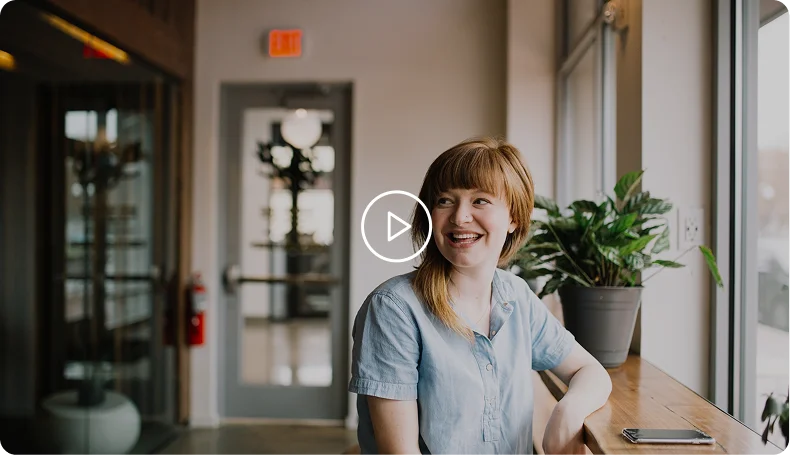
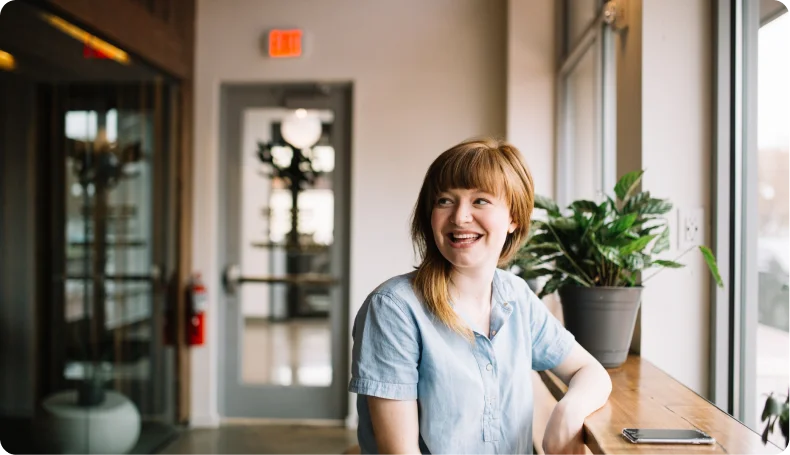
I'm copying the second site №5

diff --git a/styels/success.css b/styels/success.css
@@ -1,0 +1,110 @@
+.success {
+    background: var(--co-dark-green);
+}
+
+.success__wrapper {
+    display: flex;
+    justify-content: space-between;
+    align-items: start;
+    gap: 40px;
+    padding: 220px 0;
+    flex-wrap: wrap-reverse;
+}
+
+.success__content {
+    margin: 50px 0 0 0;
+    max-width: 550px;
+    display: flex;
+    flex-direction: column;
+    /* justify-content: start;
+    align-items: start; */
+    place-items: start;
+    gap: 20px;
+}
+
+.success__title {
+    color: var(--co-white);
+    font-size: 50px;
+    font-weight: 700;
+}
+
+.success__desc {
+    color: var(--co-white);
+    font-size: 25px;
+    font-weight: 600;
+}
+
+.success__content .btn {
+    width: 240px;
+    height: 65px;
+    margin: 50px 0 0 0;
+}
+
+.success__content .btn:hover {
+    outline: 2px solid var(--co-white);
+}
+
+.success__content-video {
+    max-width: 790px;
+    height: 455px;
+    position: relative;
+    border-radius: 16px;
+    overflow: hidden;
+}
+
+.success__cover {
+    width: 100%;
+    height: 100%;
+    object-fit: cover;
+    aspect-ratio: 158/91;
+}
+
+.success__play-icon {
+    position: absolute;
+    z-index: 2;
+    width: 72px;
+    height: 73px;
+    fill: var(--co-white);
+    top: 50%;
+    left: 50%;
+    translate: -50% -50%;
+}
+
+.success__play-icon:hover {
+    fill: var(--co-green);
+    cursor: pointer;
+}
+
+.success__gradient {
+    position: absolute;
+    z-index: 1;
+    inset: 0;
+    background: linear-gradient(180deg, rgba(0,0,0, .1), rgba(0,0,0, .5)) center/cover no-repeat;
+}
+
+@media (max-width: 1370px) {
+    .success__wrapper {
+        justify-content: center;
+    }
+
+    .success__content {
+        text-align: center;
+        place-items: center;
+    }
+}
+
+@media (max-width: 576px) {
+    .success__wrapper {
+        padding: 150px 0;
+    }
+
+    .success__title {
+        font-size: 32px;
+    }
+
+    .success__desc {
+        font-size: 20px;
+    }
+}
+
+

diff --git a/index.html b/index.html
@@ -104,6 +104,28 @@
                 </div>
             </div>
         </section>
+
+        <section class="success" aria-label="success section">
+            <div class="container">
+                <div class="success__wrapper">
+                    <div class="success__content">
+                        <h3 class="success__title">Let's hear about Kayla's success story</h3>
+                        <p class="success__desc">See how well Alivio works in a real customer’s life. </p>
+                        <button class="btn">Let’s get started</button>
+                    </div>
+
+                    <div class="success__content-video">
+                        <img src="assets/webp/video_cover.webp" class="success__cover" alt="video cover img">
+                        <svg class="success__play-icon" aria-label="play icon">
+                            <use href="assets/sprites.svg#play-icon"></use>
+                        </svg>
+                        <div class="success__gradient"></div>
+                    </div>
+                </div>
+
+
+            </div>
+        </section>
     </main>
 
 </body>

diff --git a/styels/about.css b/styels/about.css
@@ -22,10 +22,6 @@
     max-width: 500px;
 }
 
-.about__title::before {
-
-}
-
 .about__desc {
     color: var(--co-light-black);
     font-size: 20px;

diff --git a/index.css b/index.css
@@ -4,3 +4,4 @@
 @import url('styels/hero.css');
 @import url('styels/about.css');
 @import url('styels/card.css');
+@import url('styels/success.css');

diff --git a/styels/variables.css b/styels/variables.css
@@ -7,3 +7,4 @@
     --co-light-black: #484848;
 }
 
+/* media breakpoints: 992px, 768px, 576px, 480px */